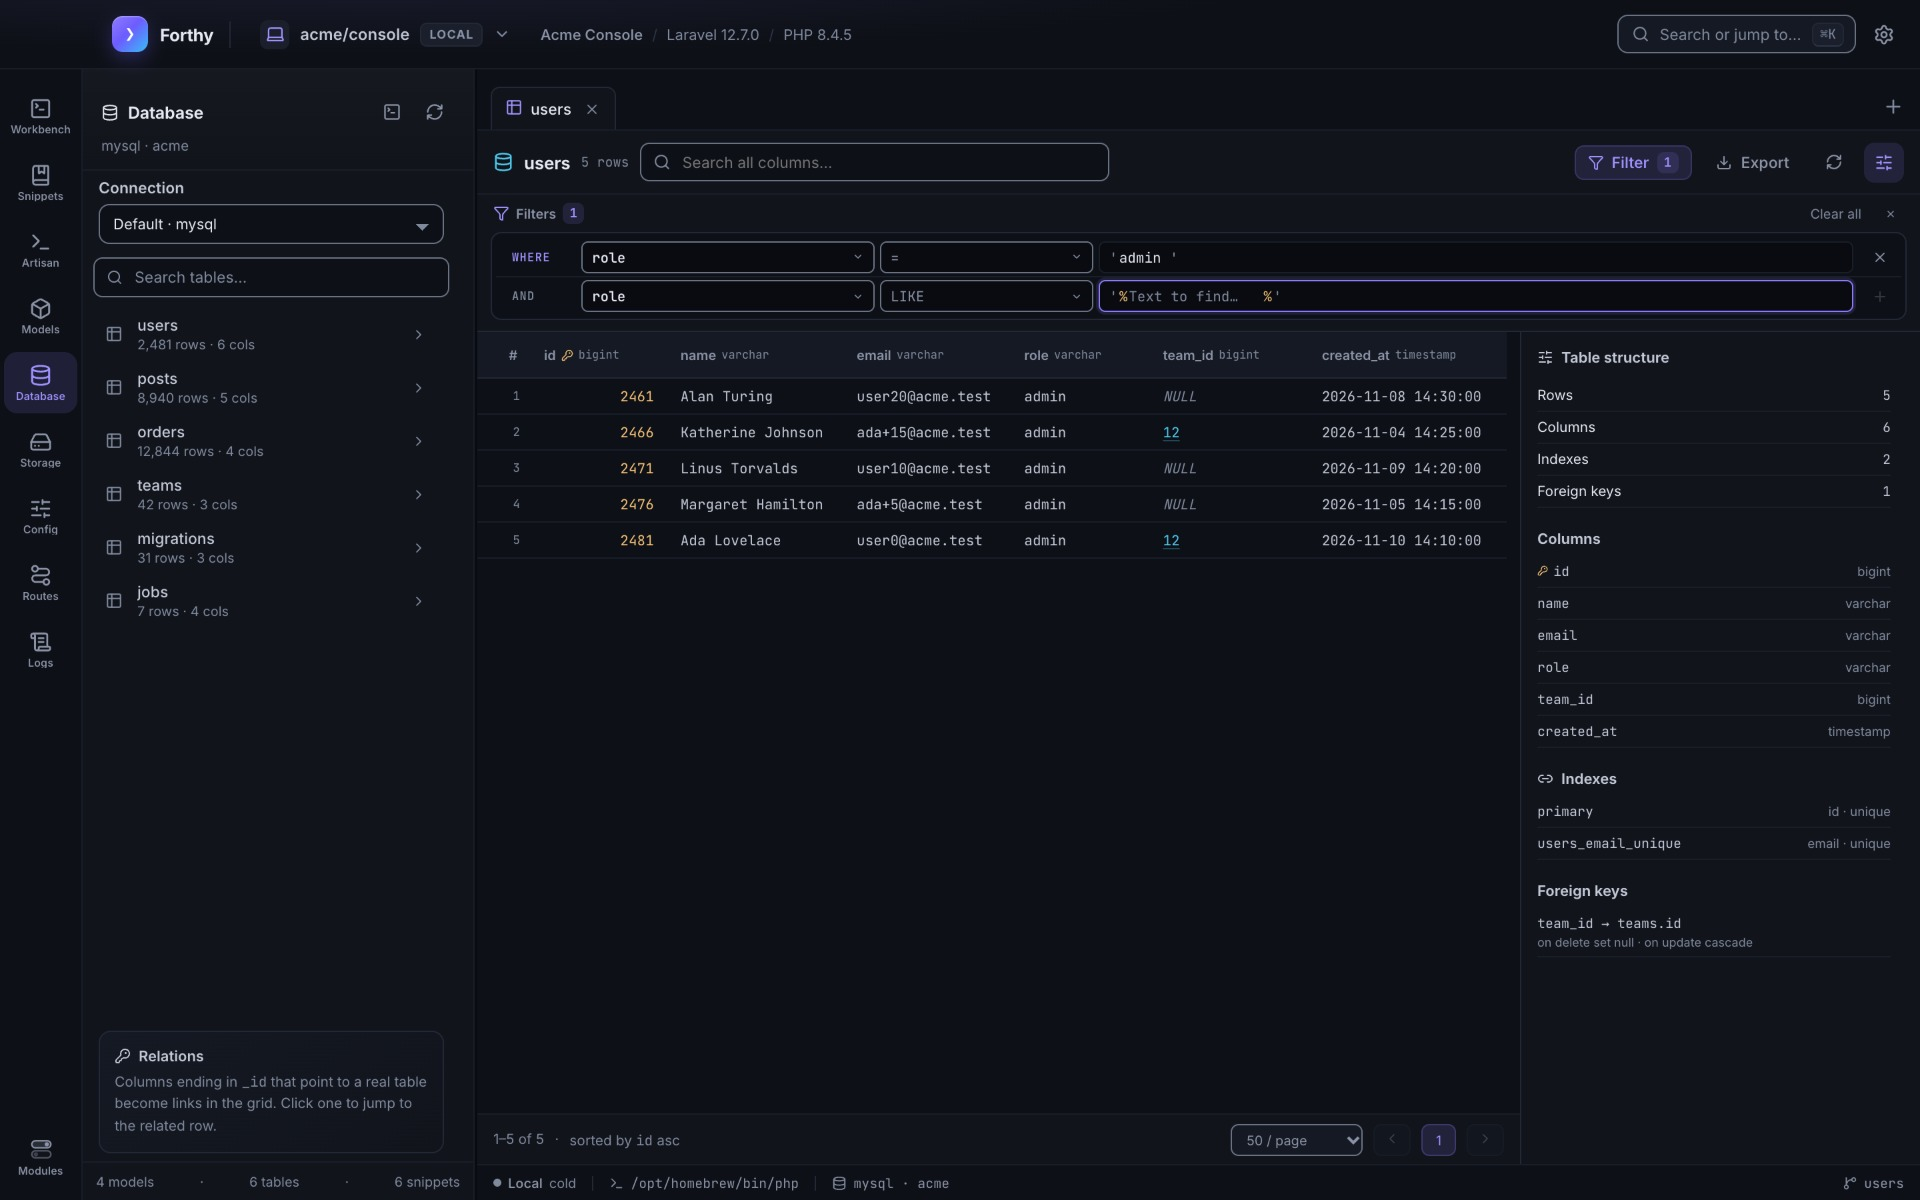
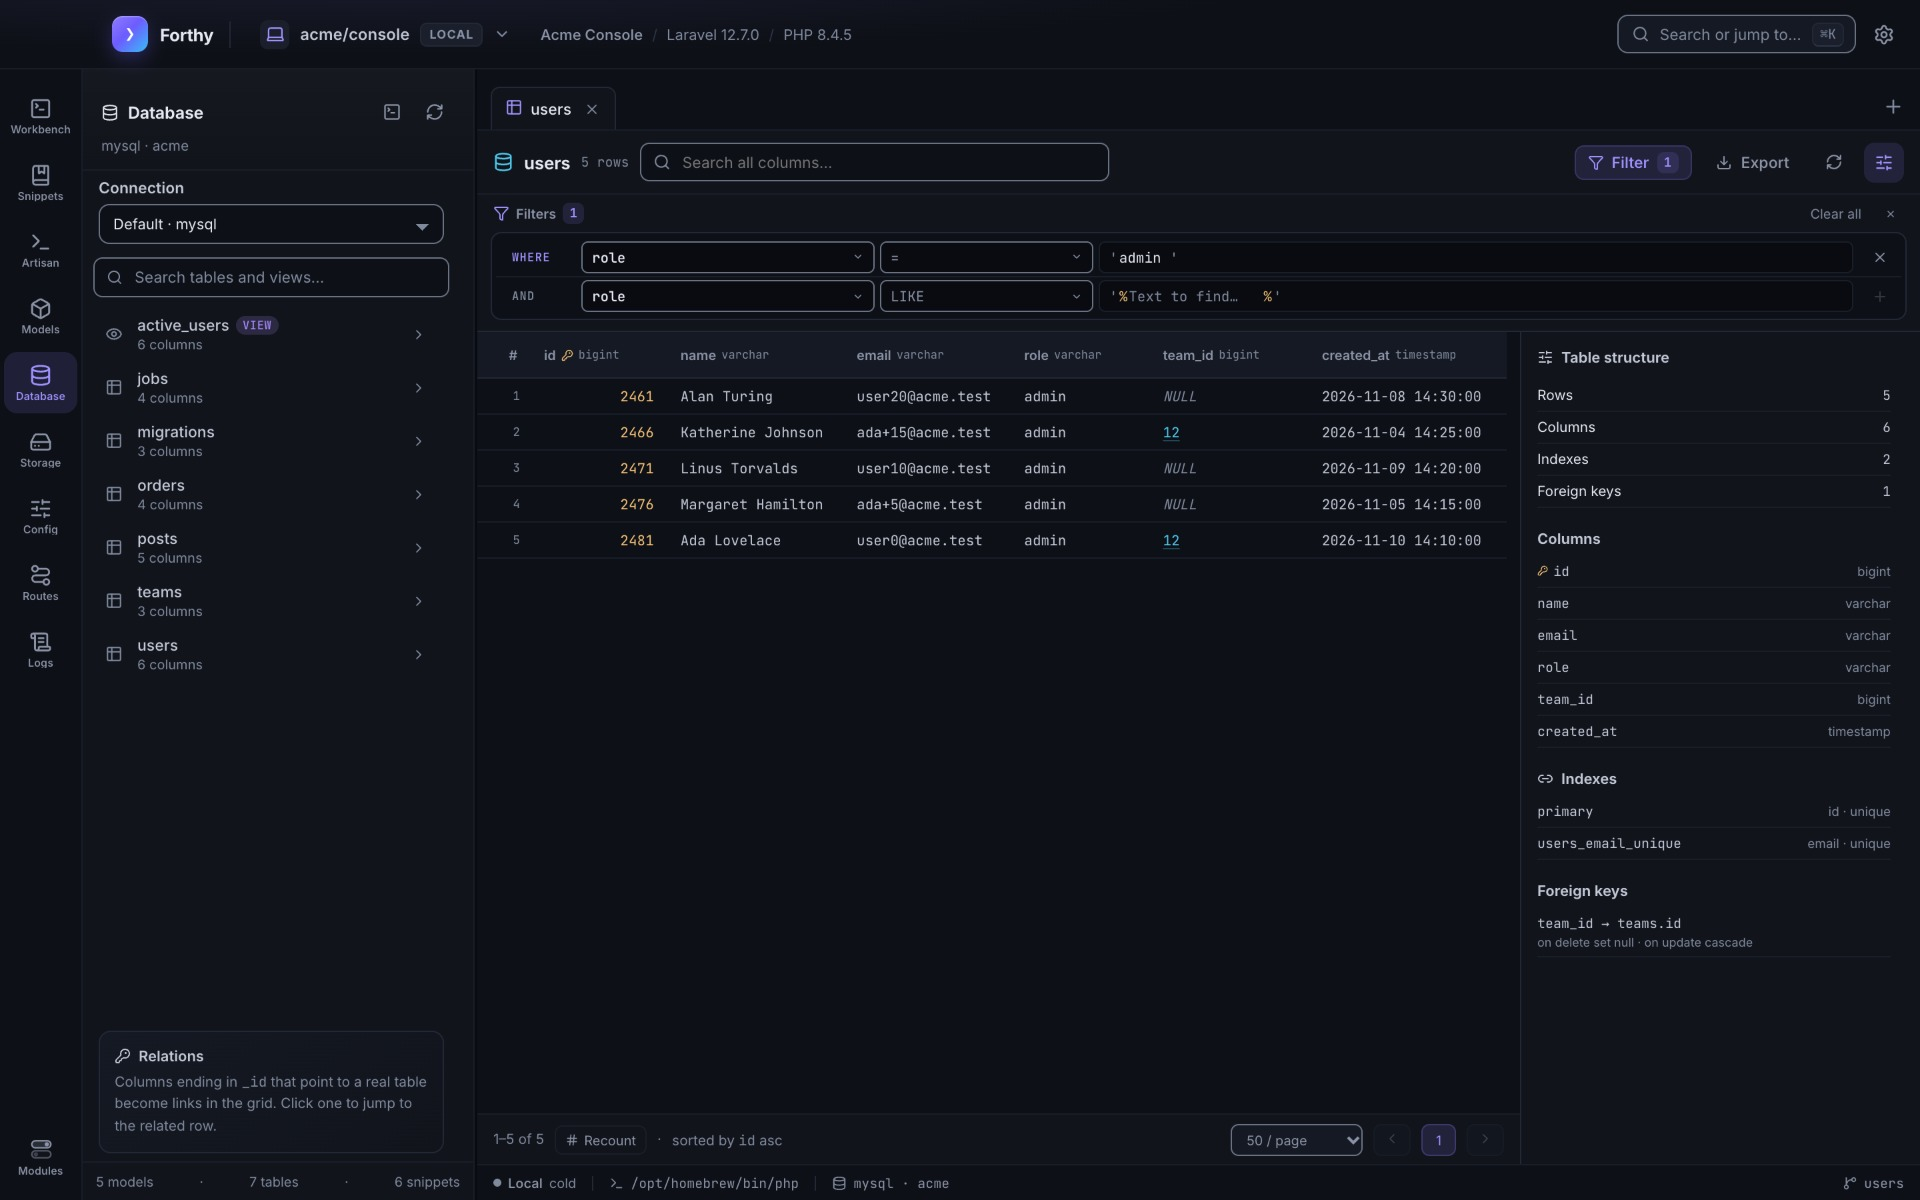
docs: release 0.14.3

diff --git a/site/index.html b/site/index.html
@@ -14,7 +14,7 @@
 
     <link rel="icon" href="favicon.svg" type="image/svg+xml" />
     <link rel="apple-touch-icon" href="apple-touch-icon.png" />
-    <link rel="stylesheet" href="styles.css?v=0.14.2" />
+    <link rel="stylesheet" href="styles.css?v=0.14.3" />
 
     <meta property="og:type" content="website" />
     <meta property="og:site_name" content="Forthy" />
@@ -36,7 +36,7 @@
     />
     <meta name="twitter:image" content="https://stealthpro.github.io/forthy-app/og.jpg" />
 
-    <script src="site.js?v=0.14.2" defer></script>
+    <script src="site.js?v=0.14.3" defer></script>
   </head>
   <body>
     <a class="skip-link" href="#main">Skip to content</a>
@@ -110,7 +110,7 @@
                 href="https://github.com/stealthpro/forthy-app/releases/latest/download/Forthy-macos-aarch64.zip"
               >
                 Download for macOS
-                <span class="button-note">v<span data-version>0.14.2</span> · arm64</span>
+                <span class="button-note">v<span data-version>0.14.3</span> · arm64</span>
               </a>
               <a class="button button-ghost" href="https://github.com/stealthpro/forthy-app">
                 View on GitHub
@@ -216,8 +216,9 @@
               </span>
               <h3>A database explorer</h3>
               <p>
-                Browse tables with a typed filter builder, sort and page through rows, and
-                inspect indexes and foreign keys. Export the current view to CSV or JSON.
+                Browse tables and views with a typed filter builder, sort and page through
+                rows, and inspect indexes and foreign keys. Export the filtered rows to CSV or
+                JSON, and ask for an exact row count only when you need one.
               </p>
             </article>
 
@@ -513,7 +514,7 @@
               href="https://github.com/stealthpro/forthy-app/releases/latest/download/Forthy-macos-aarch64.zip"
             >
               Download Forthy
-              <span class="button-note">v<span data-version>0.14.2</span> · Apple Silicon</span>
+              <span class="button-note">v<span data-version>0.14.3</span> · Apple Silicon</span>
             </a>
             <p class="fine-print">
               <a href="https://github.com/stealthpro/forthy-app/releases">All releases</a> ·

diff --git a/CHANGELOG.md b/CHANGELOG.md
@@ -1,5 +1,21 @@
 # Changelog
 
+## 0.14.3 — 2026-11-26
+
+A database release: views are browsable, and a row count never holds a table hostage.
+
+- **Views in the Database module** — tables and views are one alphabetical list; a view is
+  marked `VIEW` and opens like a table: rows, search, sorting, filters and CSV/JSON export.
+  Its structure panel shows columns only, because a view has no indexes or foreign keys.
+- **Row counts on demand** — opening a table no longer runs a full `COUNT(*)`: the first
+  page appears immediately and a **Count rows** button returns the exact number for the
+  current search and filters. The same button in the model dialog counts that model's rows,
+  so soft-deleted rows are excluded the way the model itself excludes them.
+- **Large or distant databases no longer blank a page** — the eager count used to share the
+  request deadline with reading the page, which is why a model over a view could fail with
+  "Could not load this table" on a slow server. Both cases now show data first and count
+  only when asked.
+
 ## 0.14.2 — 2026-11-26
 
 A library release: the start page stopped reordering itself, and connections can be arranged by hand.

diff --git a/README.md b/README.md
@@ -39,7 +39,8 @@ shasum -a 256 -c Forthy-macos-aarch64.zip.sha256
   tabs.
 - **Models** — an Eloquent reference for the real app: attributes, casts, relations,
   methods and scopes.
-- **Database** — browse tables with a typed filter builder, page through rows and export;
+- **Database** — browse tables and views (one alphabetical list) with a typed filter
+  builder, page through rows, export, and ask for a row count when you need one;
   the connection picker only offers databases that really exist and already hold tables.
 - **Storage** — every disk from `config/filesystems.php` plus the project itself:
   browse folders in a file-manager tab, preview text, CSV, Excel, Word, PDF and images in
